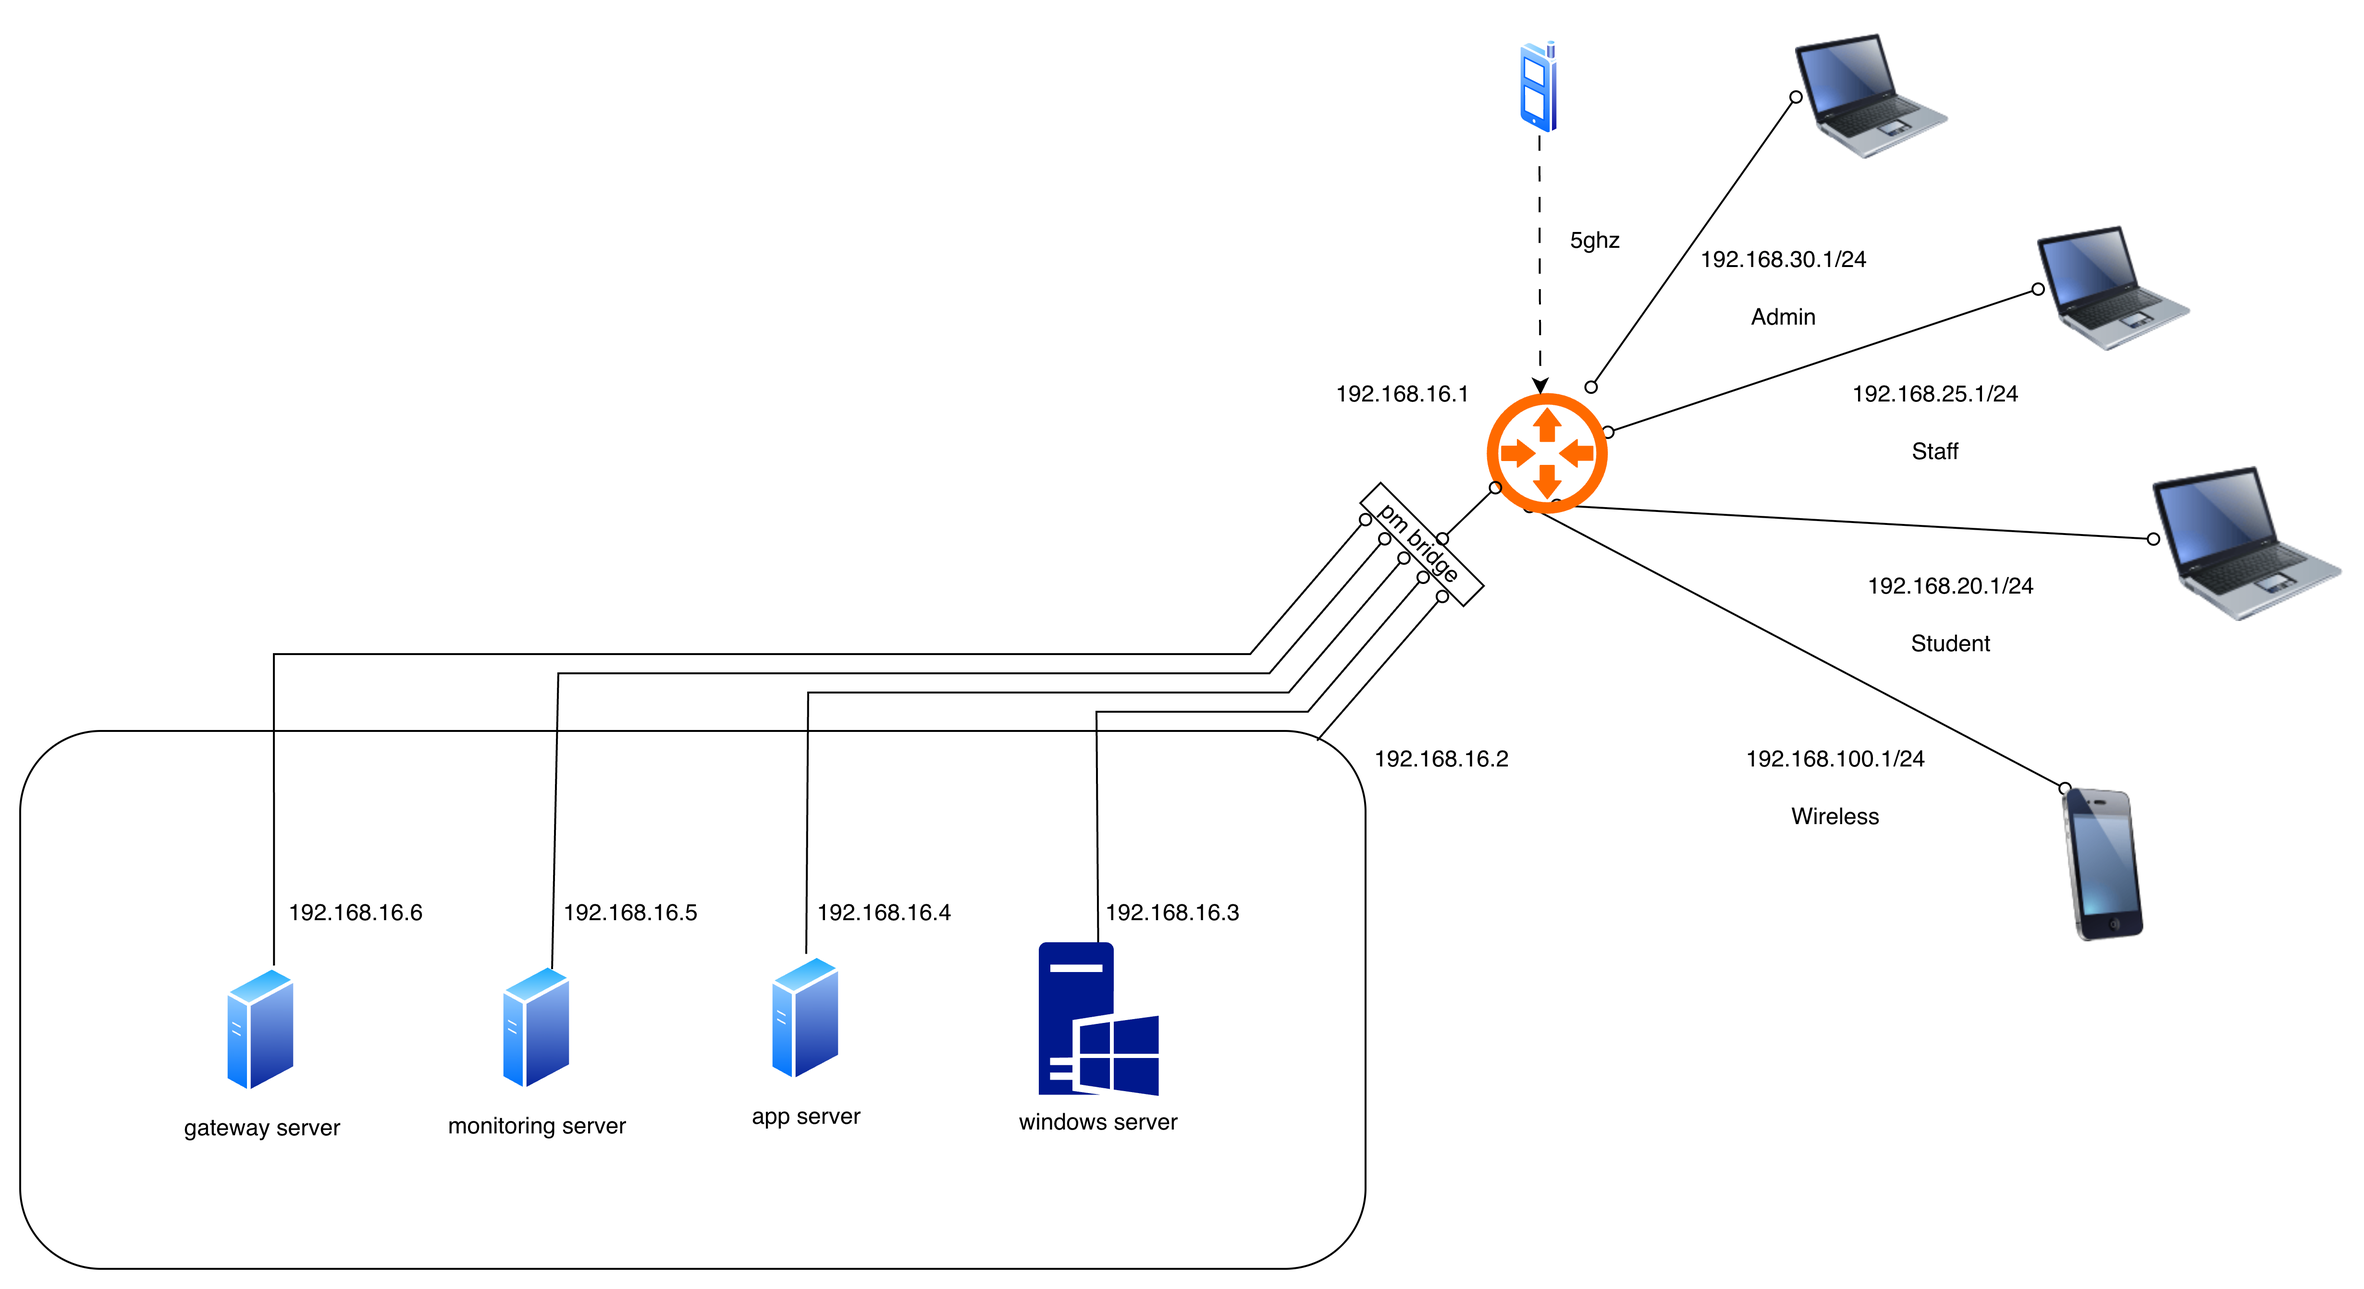
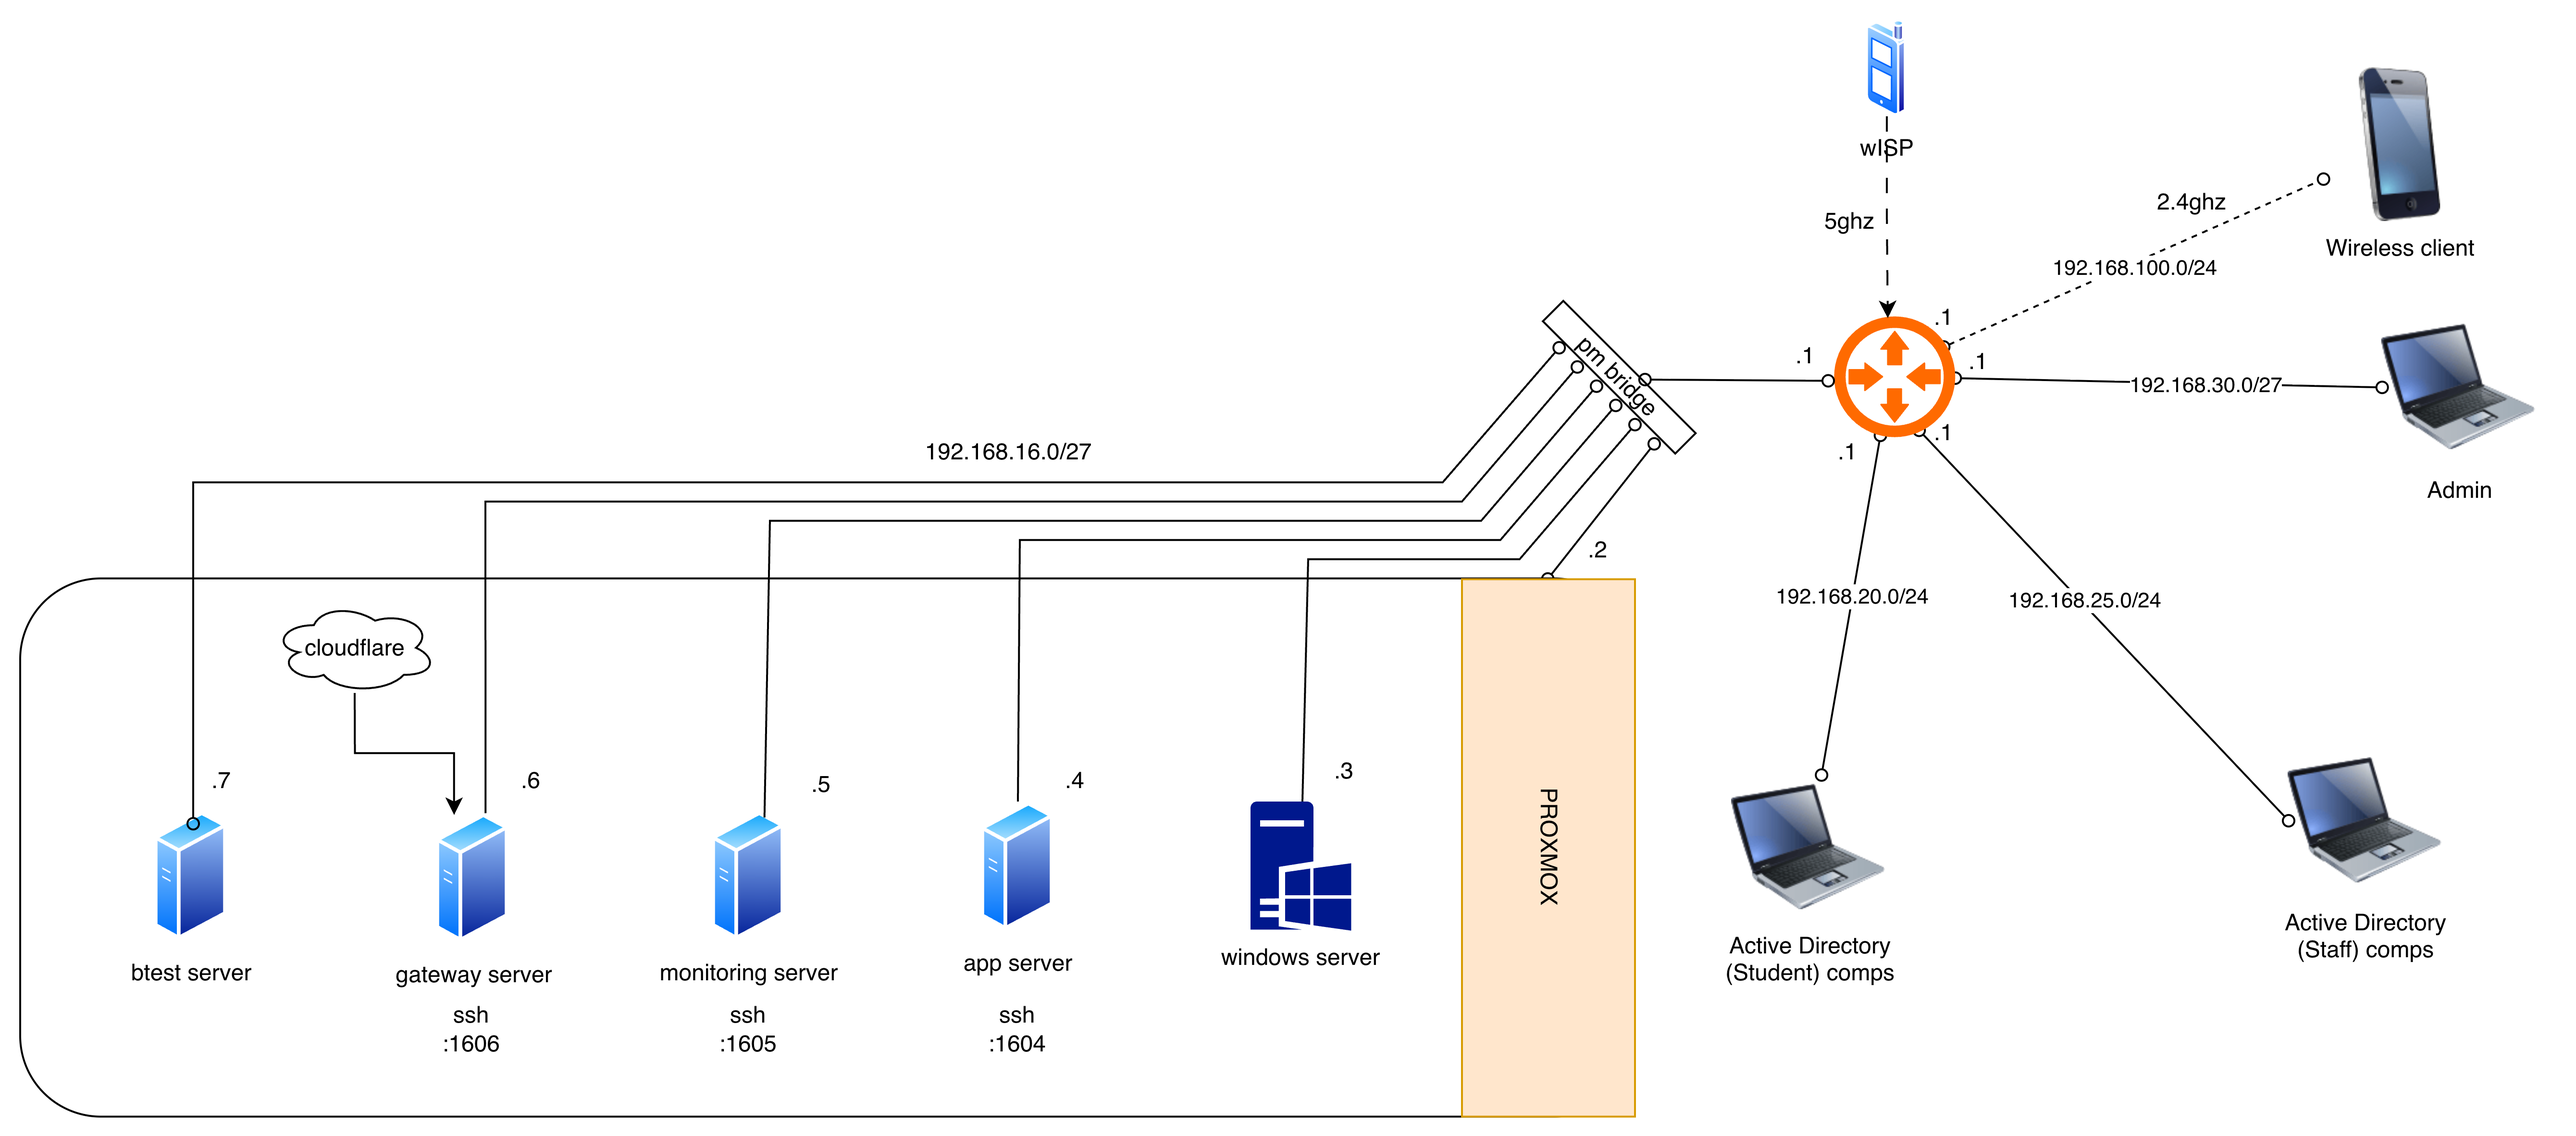
GITBOOK-15: No subject

diff --git a/topology.md b/topology.md
@@ -6,7 +6,7 @@ icon: sitemap
 
 Tipologi jaringan Learnova menggunakan arsitektur sederhana dengan proxmox untuk menjalankan semua system virtualisasi, **windows server, app server, etc**
 
-<figure><img src=".gitbook/assets/Jarprise (1).jpg" alt=""><figcaption></figcaption></figure>
+<figure><img src=".gitbook/assets/image.png" alt=""><figcaption></figcaption></figure>
 
 ### Jaringan Utama
 
@@ -45,4 +45,4 @@ Tipologi jaringan Learnova menggunakan arsitektur sederhana dengan proxmox untuk
 
 ### Server Virtual pada Proxmox
 
-<table><thead><tr><th>Server</th><th width="166.0078125">Sistem Operasi</th><th>IP Address</th><th>Fungsi Utama</th></tr></thead><tbody><tr><td>Windows Server</td><td>Windows Server</td><td><code>192.168.16.3</code></td><td>Domain Controller &#x26; GPO</td></tr><tr><td>Ubuntu App Server</td><td>Ubuntu Server</td><td><code>192.168.16.4</code></td><td>Nextcloud dan Landing Page</td></tr><tr><td>Ubuntu Monitoring Server</td><td>Ubuntu Server</td><td><code>192.168.16.5</code></td><td>Grafana &#x26; Prometheus</td></tr><tr><td>Ubuntu Gateway Server</td><td>Ubuntu Server</td><td><code>192.168.16.6</code></td><td>Cloudflared Ingress</td></tr><tr><td>Ubuntu BTest Server</td><td>Ubuntu Server</td><td><code>192.168.16.7</code></td><td>Bandwith Speed Test</td></tr></tbody></table>
+<table><thead><tr><th>Server</th><th width="166.0078125">Sistem Operasi</th><th>IP Address</th><th>SSH Port</th><th>Fungsi Utama</th></tr></thead><tbody><tr><td>Windows Server</td><td>Windows Server</td><td><code>192.168.16.3</code></td><td>-</td><td>Domain Controller &#x26; GPO</td></tr><tr><td>Ubuntu App Server</td><td>Ubuntu Server</td><td><code>192.168.16.4</code></td><td>1604</td><td>Nextcloud dan Landing Page</td></tr><tr><td>Ubuntu Monitoring Server</td><td>Ubuntu Server</td><td><code>192.168.16.5</code></td><td>1605</td><td>Grafana &#x26; Prometheus</td></tr><tr><td>Ubuntu Gateway Server</td><td>Ubuntu Server</td><td><code>192.168.16.6</code></td><td>1606</td><td>Cloudflared Ingress</td></tr><tr><td>Ubuntu BTest Server</td><td>Ubuntu Server</td><td><code>192.168.16.7</code></td><td>-</td><td>Bandwith Speed Test</td></tr></tbody></table>

diff --git a/instances/proxmox.md b/instances/proxmox.md
@@ -4,4 +4,12 @@ icon: server
 
 # Proxmox
 
+| Server                   | Username      | Password    |
+| ------------------------ | ------------- | ----------- |
+| Windows Server 2016      | Administrator | Bingbong123 |
+| Ubuntu App Server        | learnova      | Bingbong123 |
+| Ubuntu Monitoring Server | learnova      | Bingbong123 |
+| Ubuntu Gateway Server    | root          | Bingbong123 |
+| Ubuntu BTest Server      | root          | Bingbong123 |
+
 <br>
